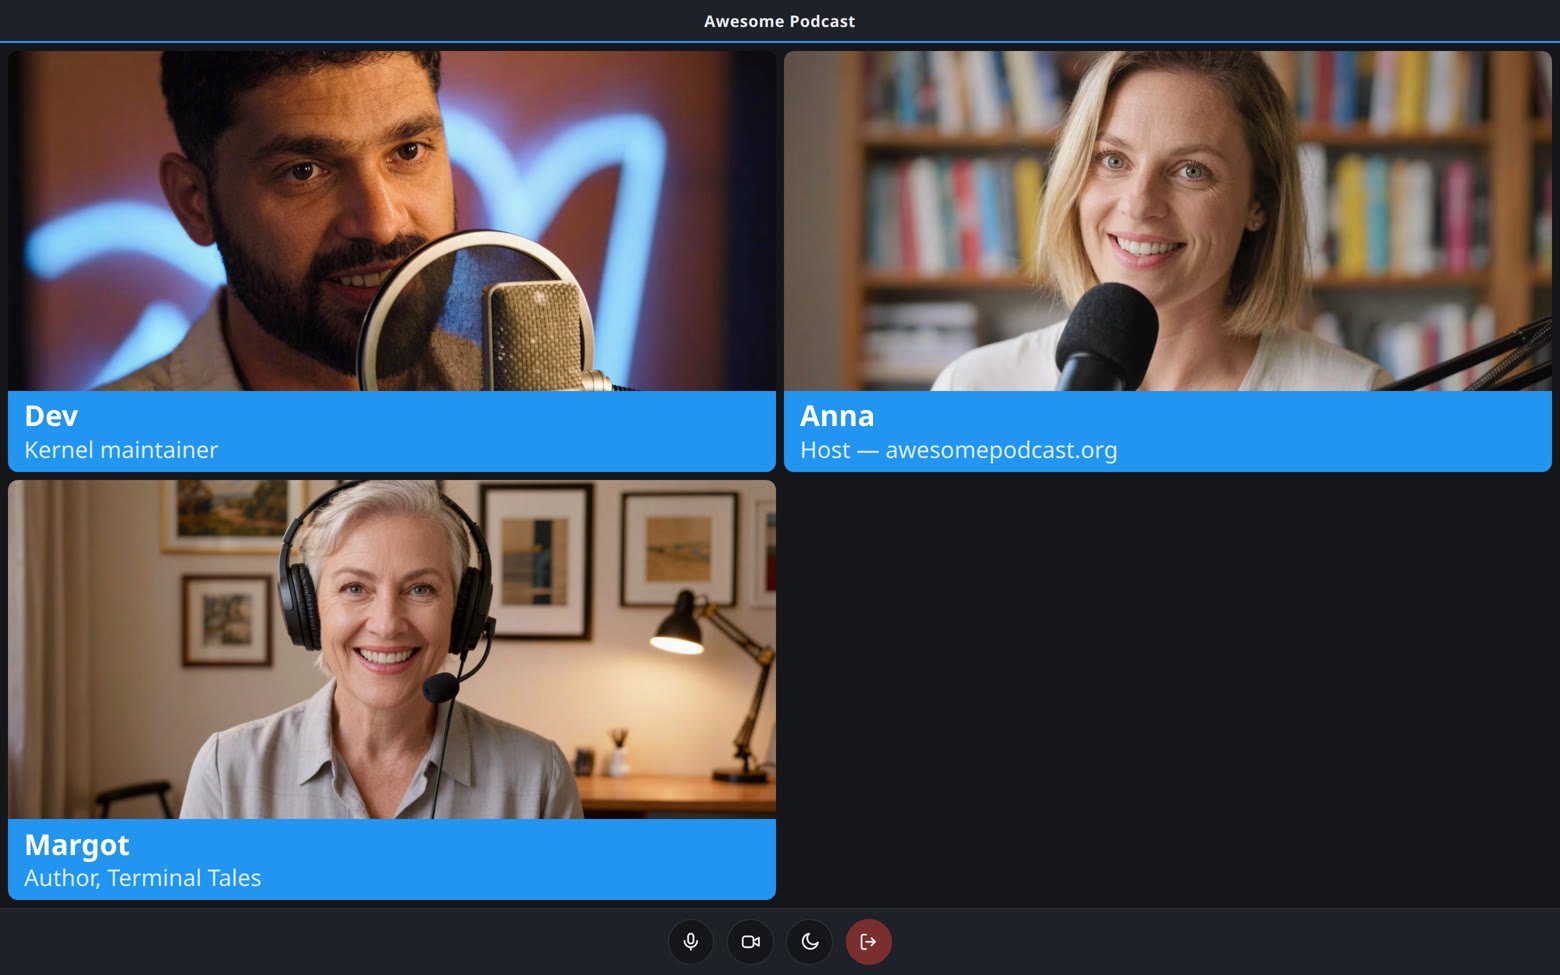
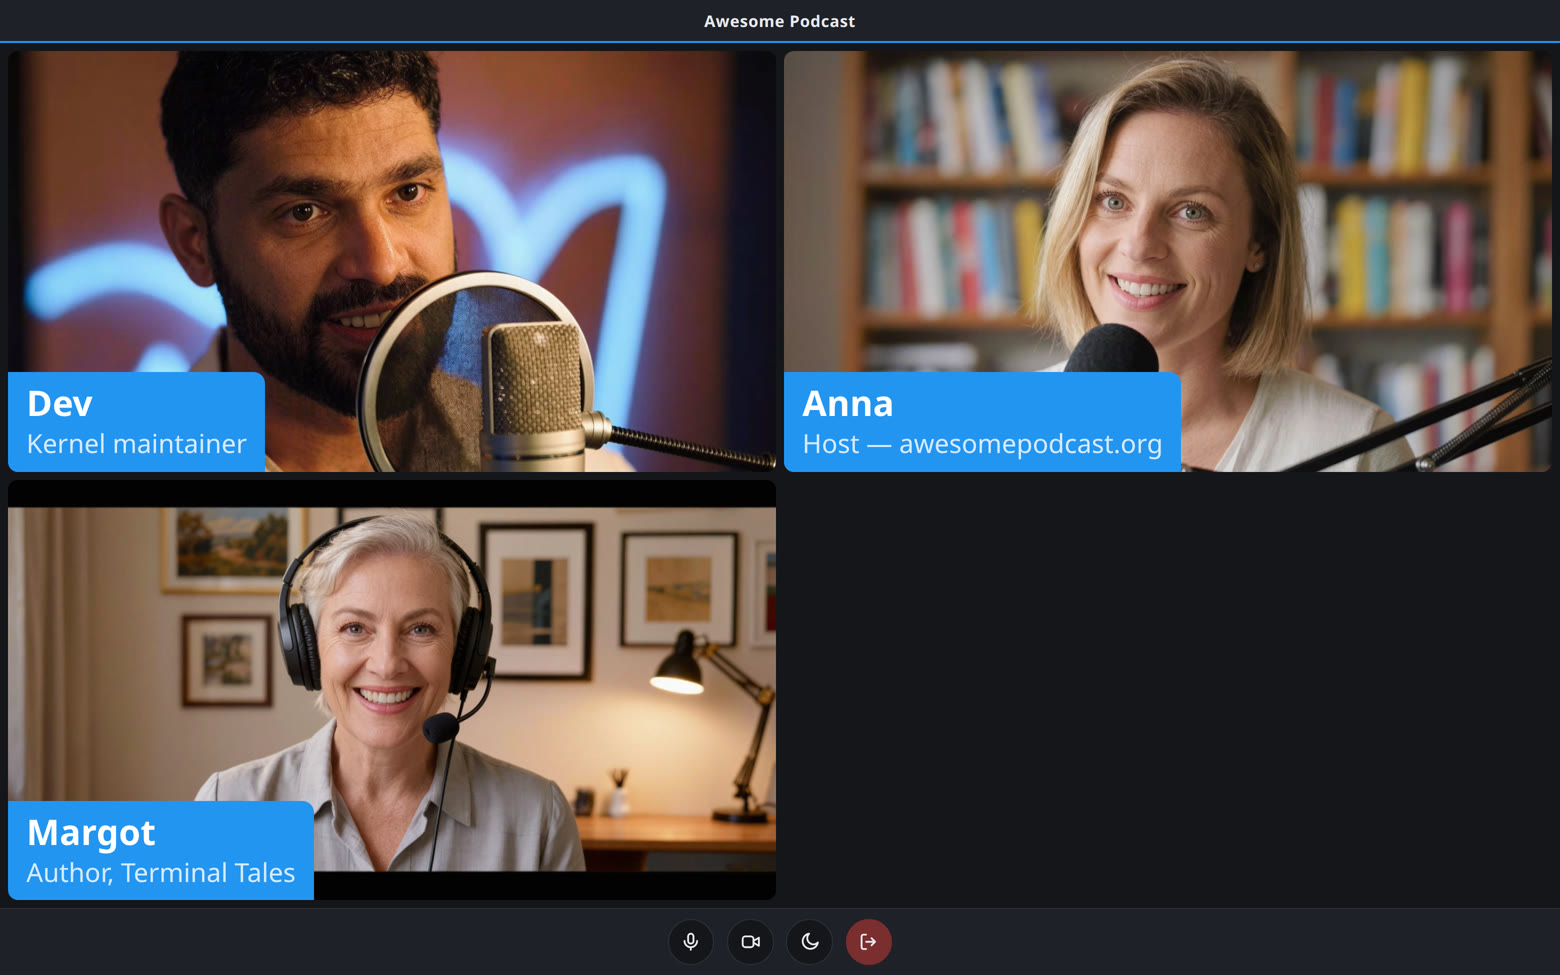
Compact scaling overlay lower-thirds
Bottom-left overlay ~quarter tile width, container-query scaled so
banners shrink with tiles; colour system unchanged.

diff --git a/web/css/session.css b/web/css/session.css
@@ -185,26 +185,32 @@ body {
   border-radius: 10px;
   overflow: hidden;
   min-height: 0;
-  display: flex;
-  flex-direction: column;
+  container-type: inline-size;
 }
 .tile video {
   width: 100%;
-  flex: 1;
-  min-height: 0;
+  height: 100%;
   object-fit: cover;
 }
 .tile.self video { transform: scaleX(-1); }
 /* Full-width lower third: name plus a smaller info line */
+/* Compact overlay lower-third: bottom-left, about a quarter of the
+   tile wide (growing to fit the text), scaling with the tile itself */
 .tile .lower-third {
-  flex-shrink: 0;
-  padding: 0.4rem 1rem 0.45rem;
+  position: absolute;
+  left: 0;
+  bottom: 0;
+  width: fit-content;
+  min-width: 28cqw;
+  max-width: 85cqw;
+  padding: 1.2cqw 2.4cqw 1.4cqw;
+  border-top-right-radius: 1.5cqw;
   background: var(--banner-c, #1e2127);
   color: var(--banner-fg, #ffffff);
 }
 .tile.muted .name::before { content: "🔇 "; font-size: 0.8em; }
 .tile .name {
-  font-size: 1.8rem;
+  font-size: clamp(0.7rem, 4.6cqw, 2.2rem);
   font-weight: 700;
   line-height: 1.3;
   overflow: hidden;
@@ -212,7 +218,7 @@ body {
   white-space: nowrap;
 }
 .tile .tagline {
-  font-size: 1.44rem;
+  font-size: clamp(0.55rem, 3.4cqw, 1.7rem);
   opacity: 0.82;
   line-height: 1.3;
   overflow: hidden;
@@ -260,8 +266,6 @@ body {
   grid-row: 1;
 }
 .grid.spotlight .tile:not(.featured) { grid-row: 2; }
-.grid.spotlight .tile:not(.featured) .lower-third { padding: 0.2rem 0.5rem 0.25rem; }
-.grid.spotlight .tile:not(.featured) .name { font-size: 0.7rem; }
 .grid.spotlight .tile:not(.featured) .tagline { display: none; }
 
 /* ---------- Host panel (host-facing: Lightmorphic house style) ---------- */

diff --git a/CHANGELOG.md b/CHANGELOG.md
@@ -15,10 +15,11 @@ All notable changes to FOSSStudio are documented here.
   mute state is shared so everyone's view agrees. Guests can still
   unmute themselves.
 - Lower-third text doubled in size; accent stripe removed
-- Banners moved **below** the video as a solid bar; the host picks the
-  banner colour live from nine swatches (one line) or a hex code, or
-  gives **every person their own colour** with one button — latecomers
-  are coloured automatically
+- Lower-third banners overlay the bottom-left of each video, about a
+  quarter of the tile wide and scaling with tile size (small tiles get
+  small banners); the host picks the colour from nine swatches or a hex
+  code, can give **everyone a different colour**, or let guests pick
+  their own from the palette
 - Host panel restyled to the Lightmorphic house look, with a close
   button; session controls swapped emoji for modern line icons
 - Host panel simplified: every row (including your own) has Spotlight
